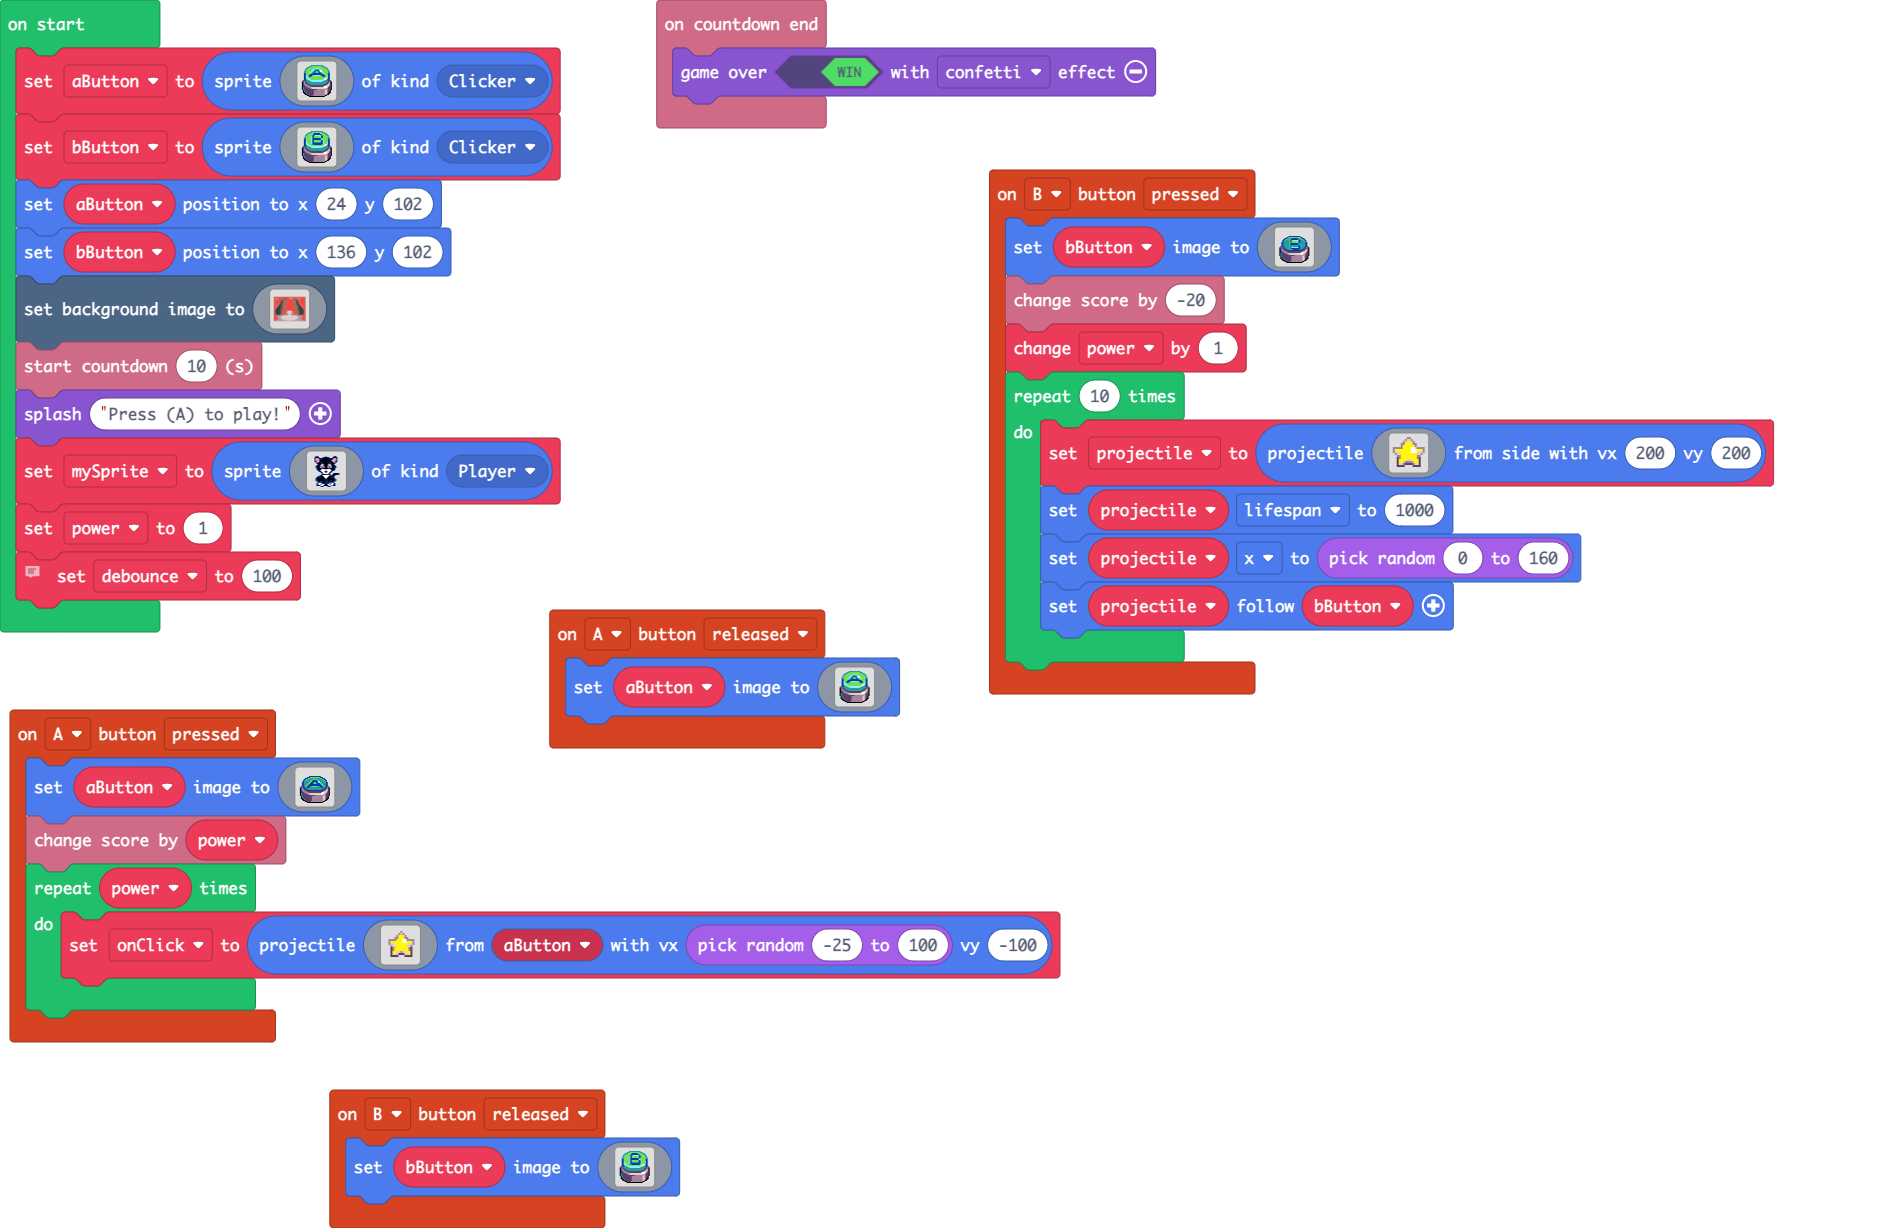
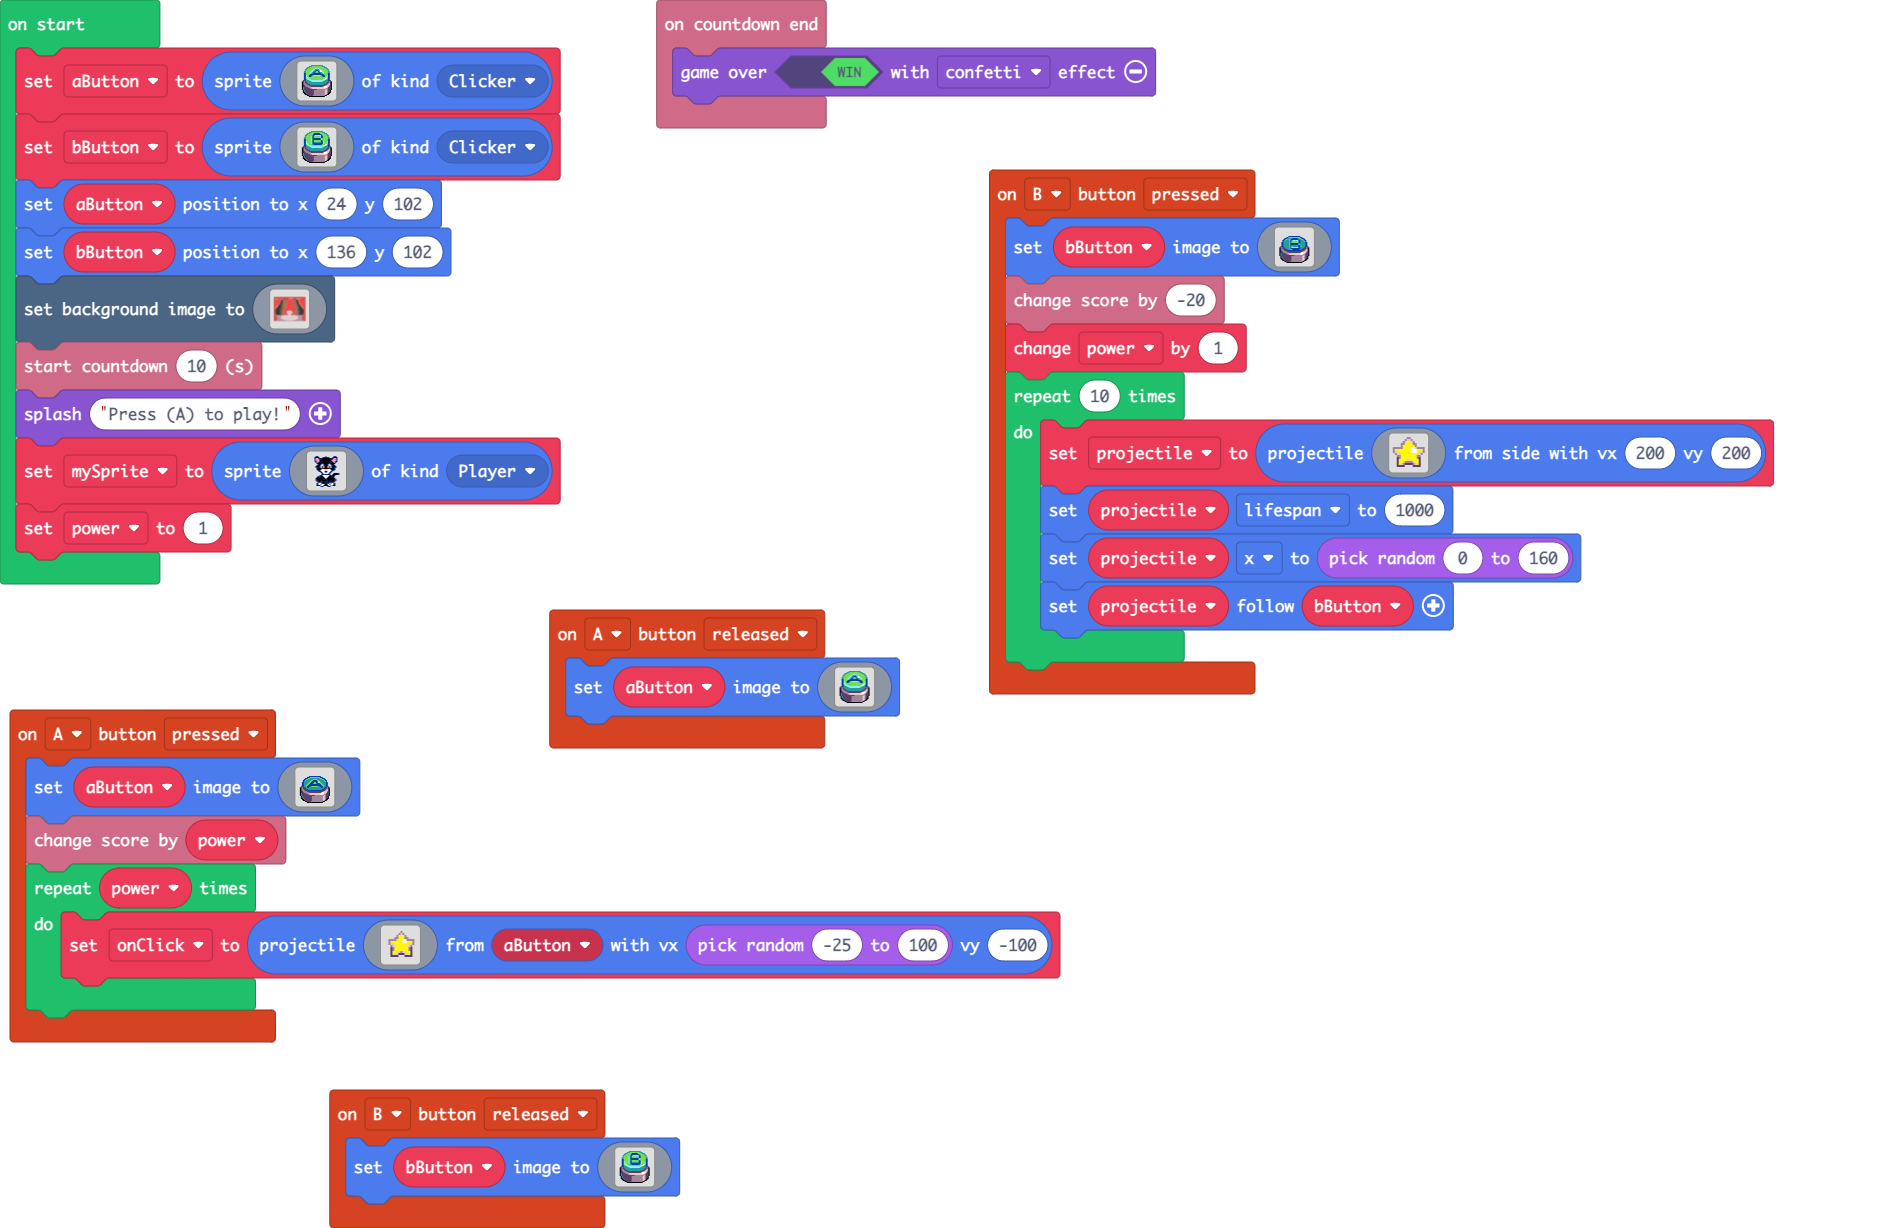
Update main.blocks, main.ts

Changed region(s): [[0.0, 0.4332, 0.1853, 0.5261]]

diff --git a/main.ts b/main.ts
@@ -42,6 +42,3 @@ info.startCountdown(10)
 game.splash("Press (A) to play!")
 let mySprite = sprites.create(assets.image`Kitten4`, SpriteKind.Player)
 power2 = 1
-// can't use controller events because it would override
-// the user's controller handlers.
-let debounce = 100
